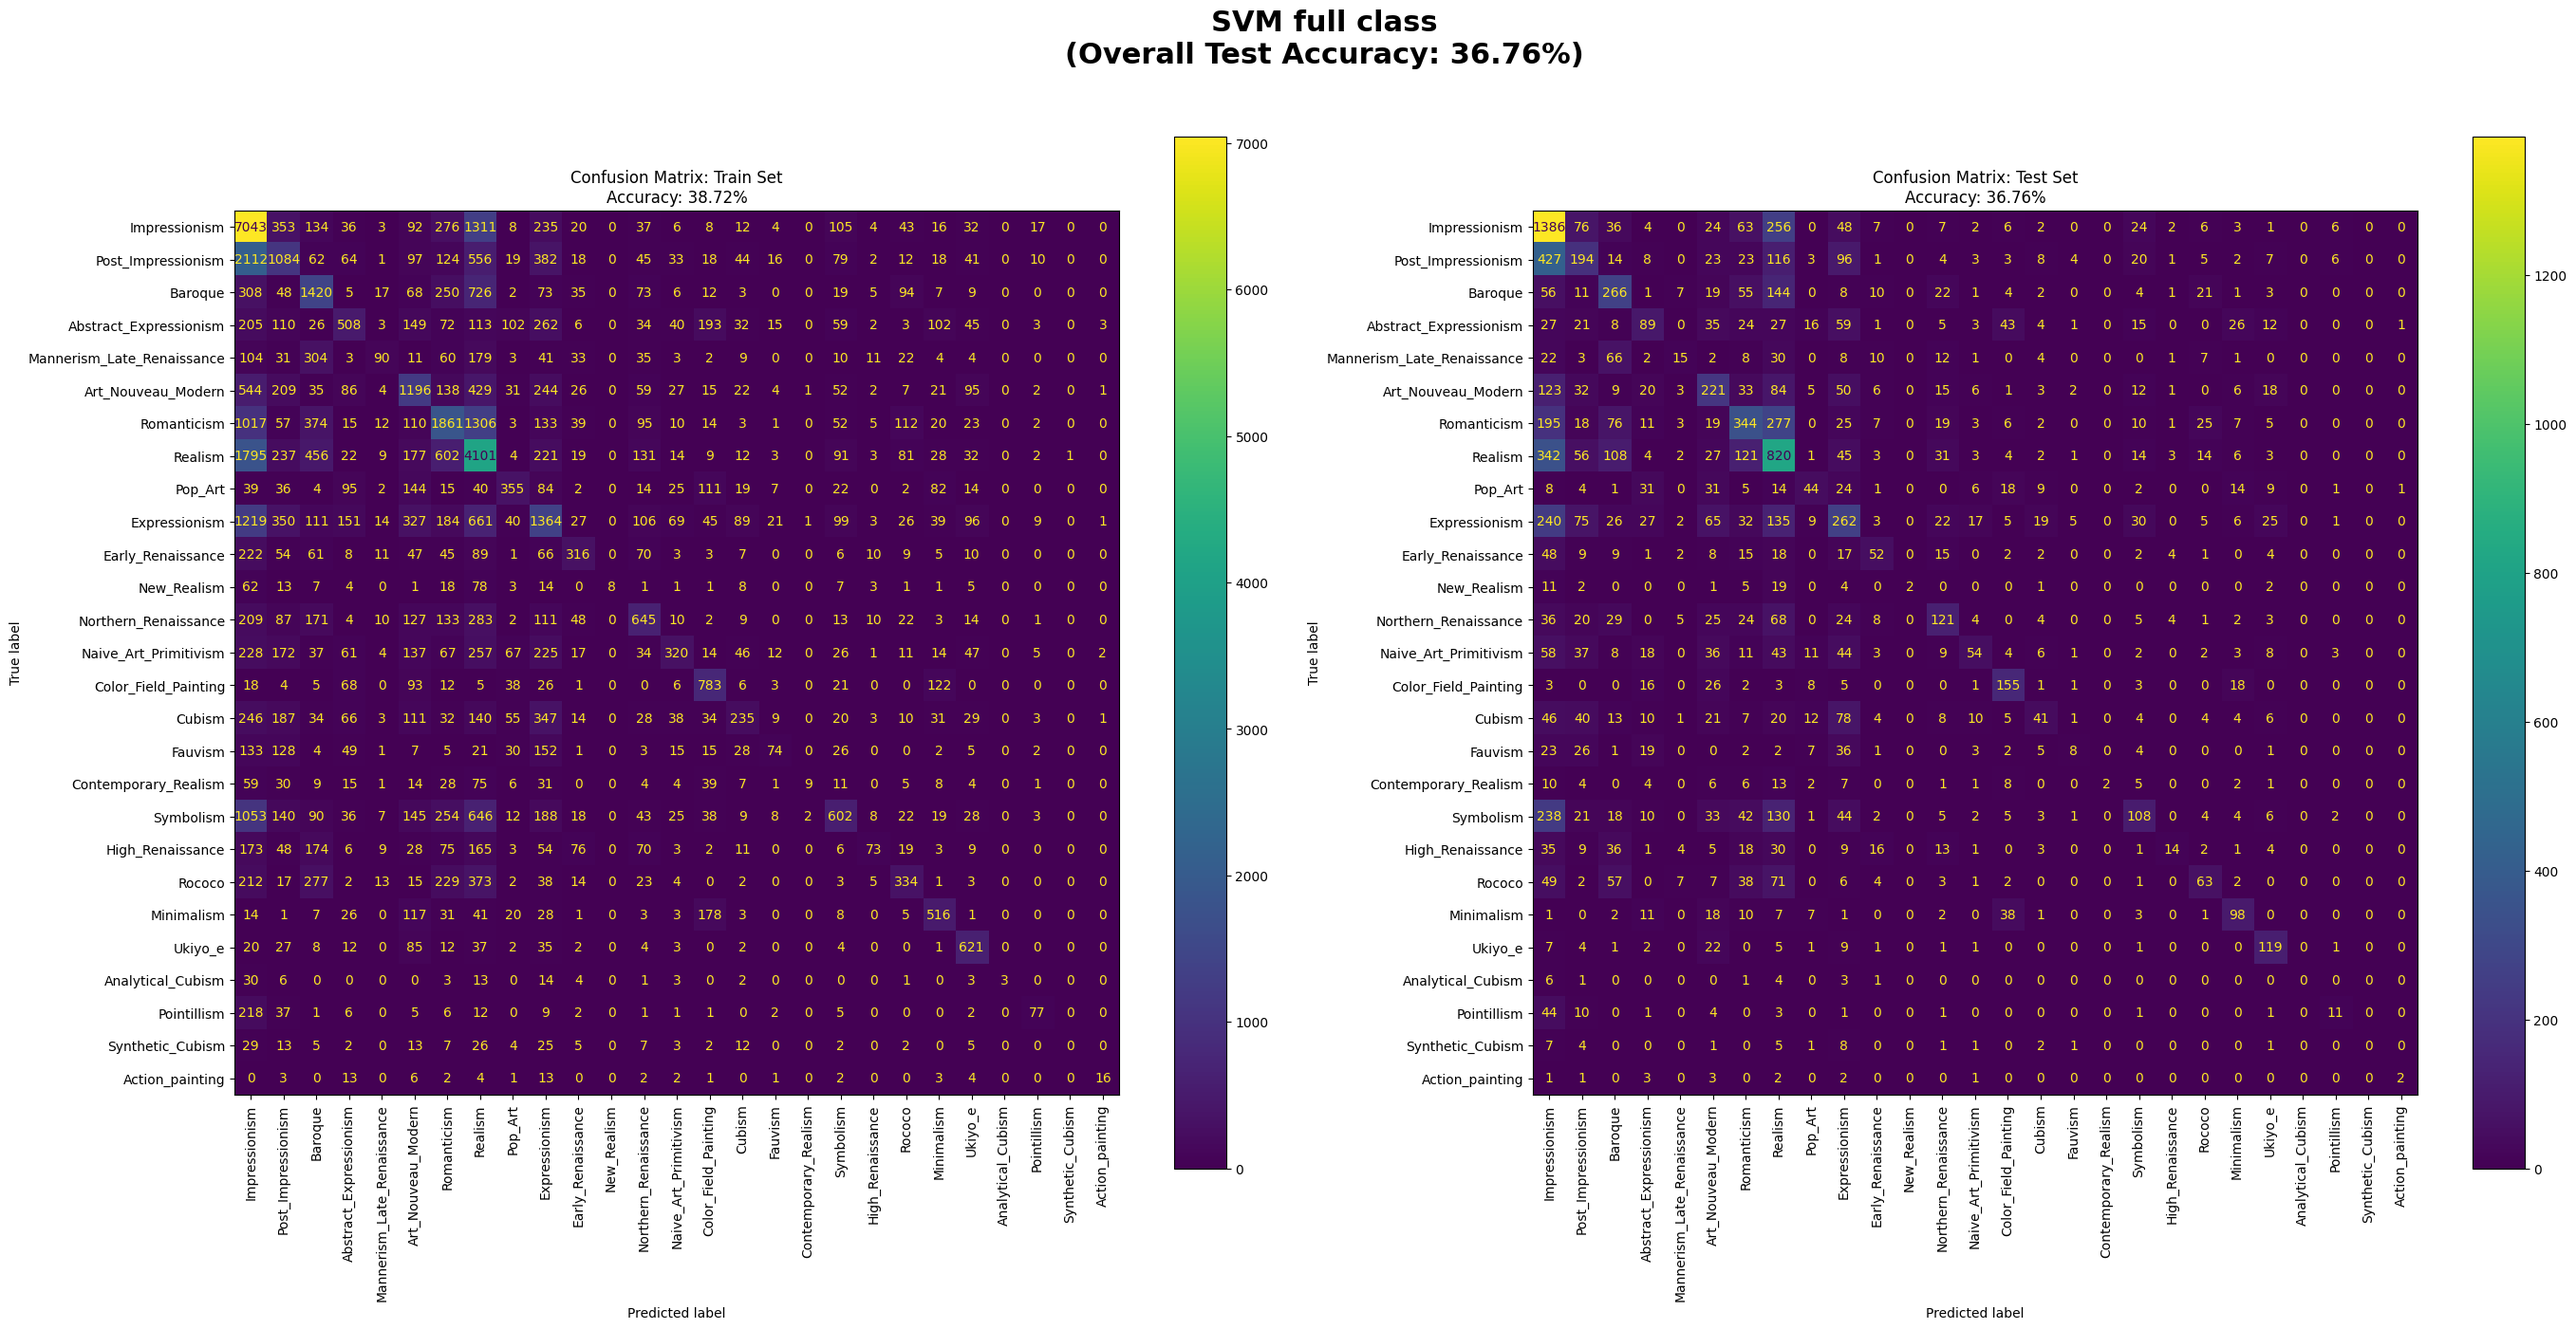
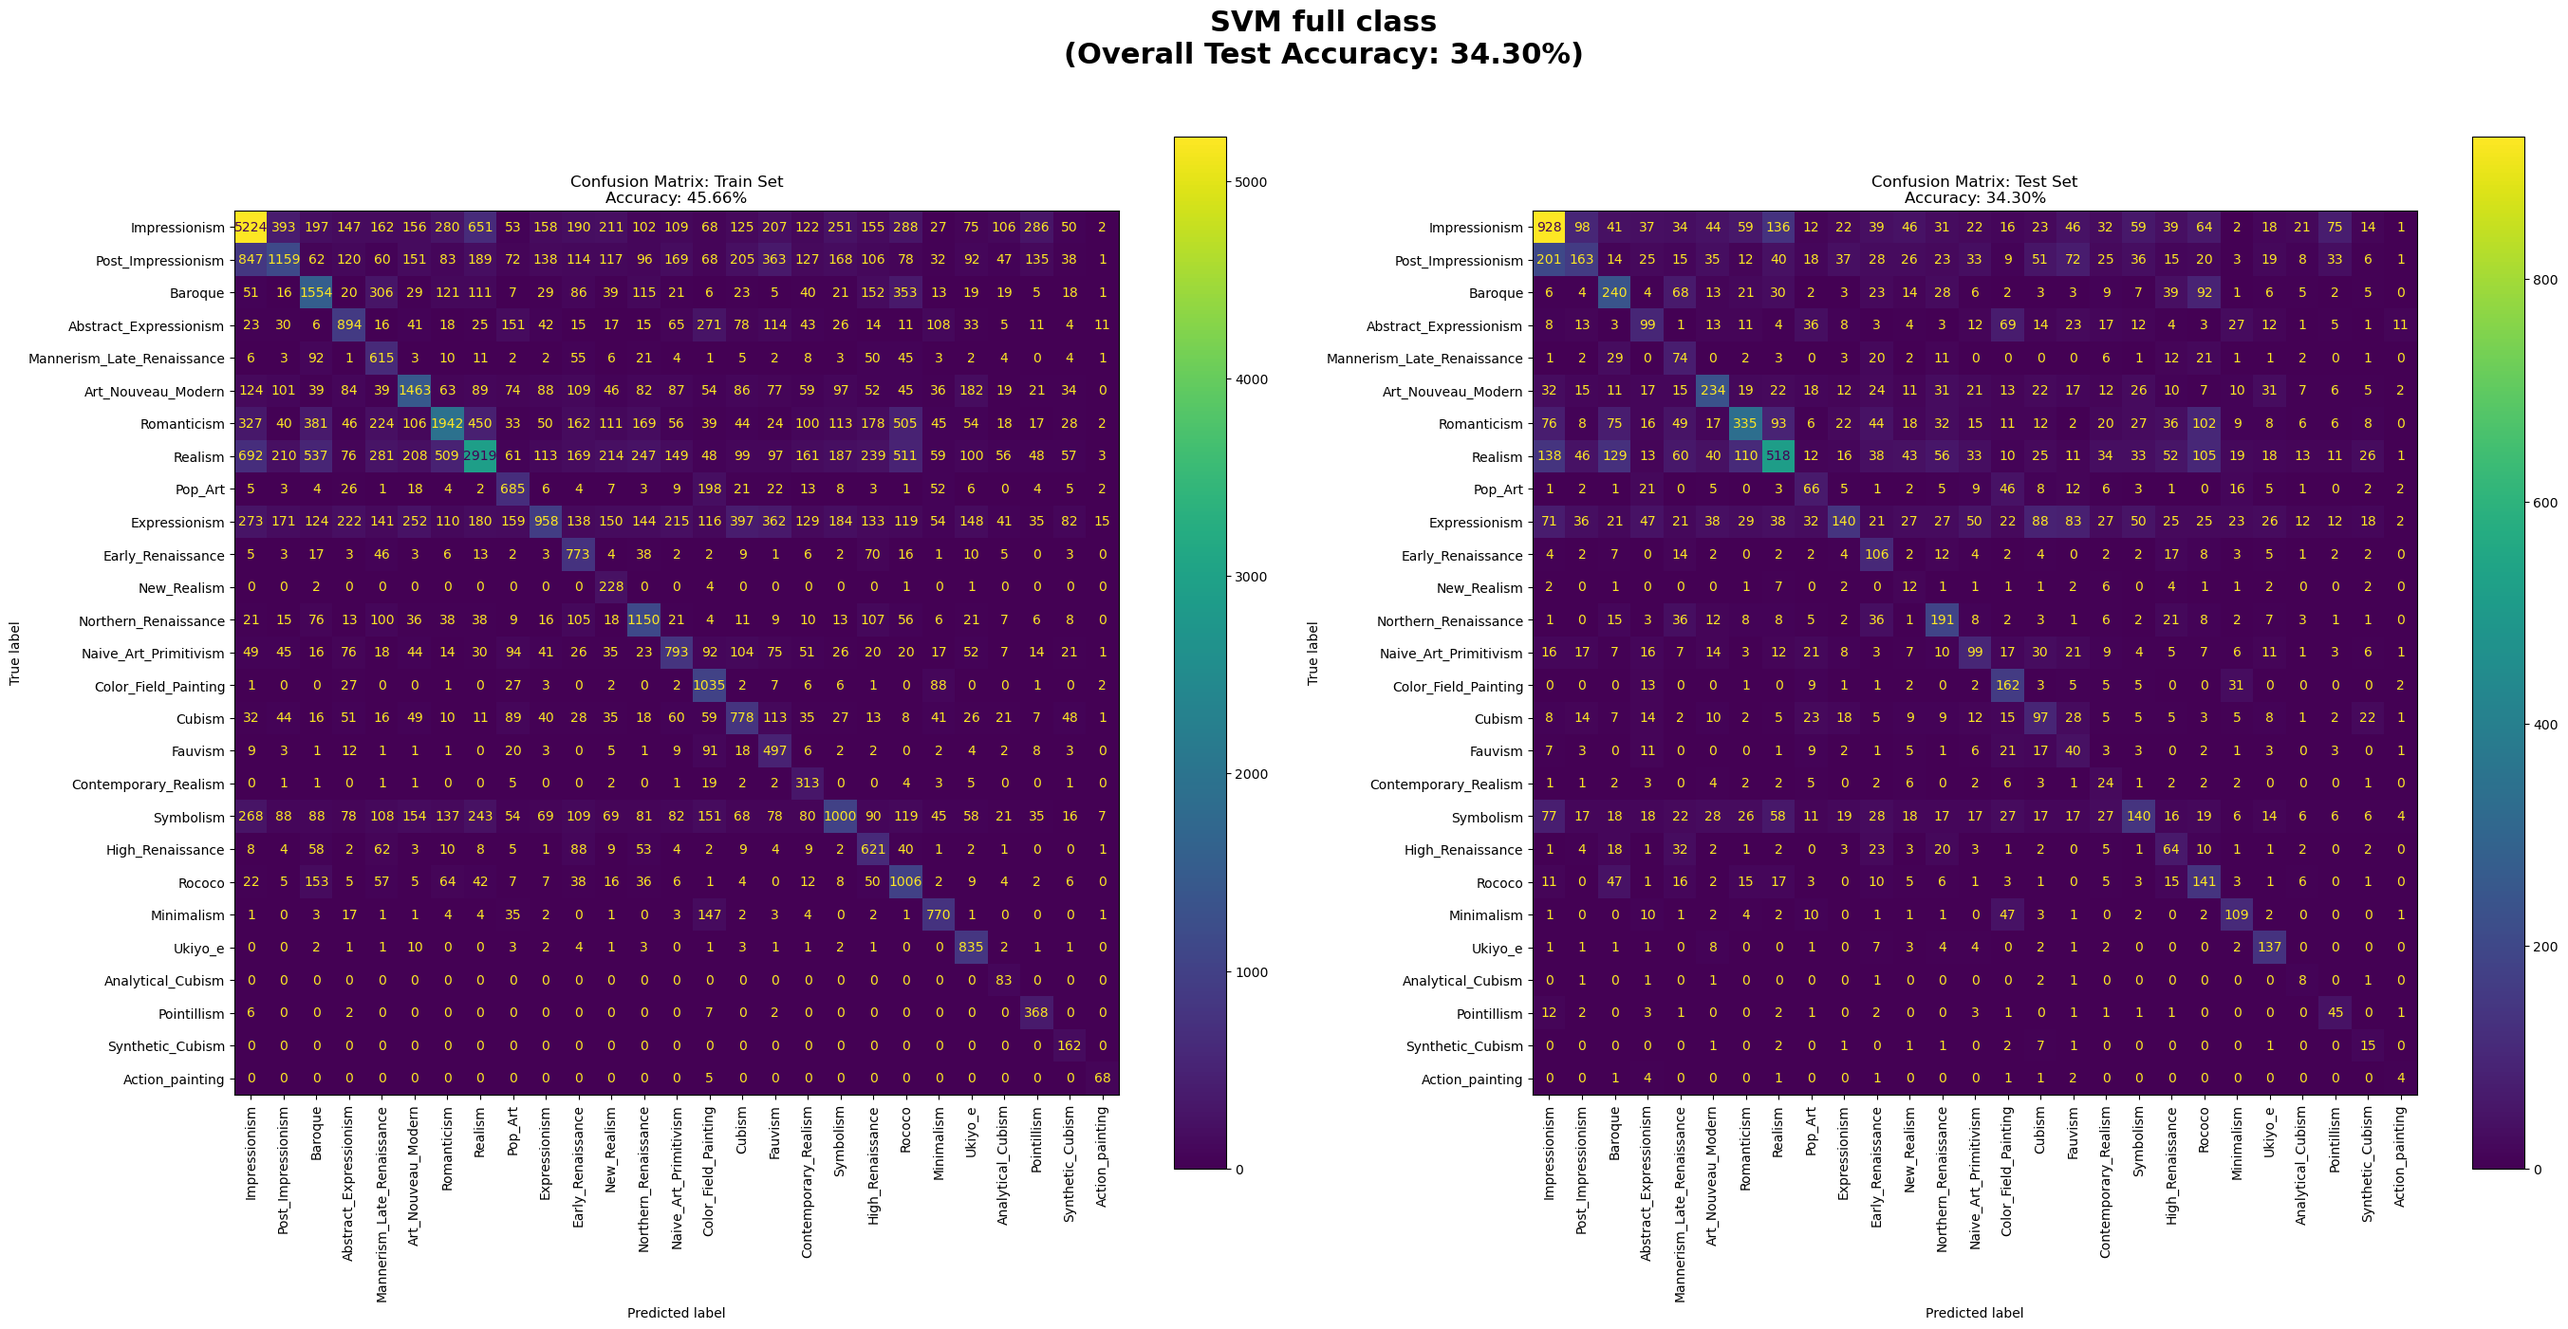
New features and SVM V1
Introduced additional image feature extraction methods including HOG statistics, edge statistics, LAB histogram, wavelet texture, depth of field proxy, and rule of thirds stats. Updated the SVM pipeline with increased Nystroem components and adjusted LinearSVC parameters for improved model performance. Fixed import path for DataBase_Functions in Main.py. Updated SVM score images.

diff --git a/DataBase/Feature_extraction_functions.py b/DataBase/Feature_extraction_functions.py
@@ -232,10 +232,6 @@ def color_harmony_contrast(img, n_bins=32):
 
     return features
 
-
-
-
-
 def lbp_histogram(img, P=8, R=1):
     """
     Compute uniform Local Binary Pattern (LBP) histogram for an image.
@@ -450,8 +446,205 @@ def fractal_dimension(img, threshold=128):
     # Final safety check for SVM stability
     return result if np.isfinite(result) else 0.0
 
+############ NOWE #######################
+
+def hog_stats(img):
+    """
+    HOG normalnie zwraca tysiące cech. My policzymy statystyki z HOG,
+    aby uchwycić "kierunkowość" pociągnięć pędzla bez wysadzania wymiarowości.
+    """
+    if img.ndim == 3:
+        gray = cv2.cvtColor(img, cv2.COLOR_RGB2GRAY)
+    else:
+        gray = img.copy()
+
+    # Zmniejszamy obraz dla szybkości HOG (opcjonalne, ale zalecane dla SVM)
+    # HOG jest bardzo wolny na dużych obrazach 512x512
+    img_small = cv2.resize(gray, (128, 128))
+
+    # Obliczamy HOG
+    fd = hog(img_small, orientations=9, pixels_per_cell=(16, 16),
+             cells_per_block=(2, 2), visualize=False, feature_vector=True)
+    
+    # Zamiast zwracać cały wektor fd (który ma np. 2000 elementów), zwracamy jego statystyki
+    return {
+        'hog_mean': np.mean(fd),
+        'hog_std':  np.std(fd),
+        'hog_max':  np.max(fd),
+        'hog_kurtosis': np.mean((fd - np.mean(fd))**4) / (np.std(fd)**4 + 1e-6)
+    }
+
+def edge_statistics(img):
+    """
+    Zamiast szukać zamkniętych konturów (co nie działa w malarstwie),
+    liczymy statystyki krawędzi (Canny).
+    """
+    # Konwersja do szarości
+    if img.ndim == 3:
+        gray = cv2.cvtColor(img, cv2.COLOR_RGB2GRAY)
+    else:
+        gray = img.copy()
+        
+    # Detekcja krawędzi algorytmem Canny
+    # Parametry 50, 150 są standardowe, można eksperymentować
+    edges = cv2.Canny(gray, 50, 150)
+    
+    # Obliczamy gęstość krawędzi (ile % obrazu to krawędzie)
+    edge_density = np.mean(edges > 0)
+    
+    # Kierunkowość krawędzi (opcjonalnie, prosta wersja)
+    # Sobel X i Y
+    sobelx = cv2.Sobel(gray, cv2.CV_64F, 1, 0, ksize=3)
+    sobely = cv2.Sobel(gray, cv2.CV_64F, 0, 1, ksize=3)
+    magnitude = np.sqrt(sobelx**2 + sobely**2)
+    
+    return {
+        'edge_density': edge_density,
+        'edge_magnitude_mean': np.mean(magnitude),
+        'edge_magnitude_std': np.std(magnitude)
+    }
+
+def lab_histogram(img):
+    """
+    Z artykułu Karayev et al.:
+    Joint histogram in CIELAB color space.
+    Używa 4 binów dla L, 14 dla a, 14 dla b.
+    """
+    # Konwersja do LAB
+    if img.ndim == 3:
+        lab = cv2.cvtColor(img, cv2.COLOR_RGB2LAB)
+    else:
+        return {} # Obsługa błędów dla obrazów w skali szarości
+
+    # Obliczenie histogramu 3D
+    # ranges: L (0-256), a (0-256), b (0-256) w OpenCV
+    # bins: [4, 14, 14] zgodnie z artykułem
+    hist = cv2.calcHist([lab], [0, 1, 2], None, [4, 14, 14], [0, 256, 0, 256, 0, 256])
+    
+    # Normalizacja (L1 norm), aby suma wynosiła 1 (niezależnie od rozmiaru obrazu)
+    hist = cv2.normalize(hist, None).flatten()
+    
+    # Zwracamy jako słownik cech statystycznych histogramu
+    # (SVM nie przyjmie całego histogramu jeśli jest za duży, ale tutaj to 4*14*14 = 784 cechy)
+    # W Twoim przypadku lepiej zwrócić to jako listę wartości w słowniku
+    features = {}
+    for i, val in enumerate(hist):
+        features[f'lab_hist_{i}'] = val
+        
+    return features
+
+def wavelet_texture(img):
+    """
+    Z artykułu Datta et al.[cite: 1883, 1890]:
+    3-level Daubechies wavelet transform on HSV.
+    Sum of coefficients in HL, LH, HH bands.
+    """
+    import pywt
+    
+    if img.ndim == 3:
+        hsv = cv2.cvtColor(img, cv2.COLOR_RGB2HSV)
+    else:
+        # Fallback dla grayscale
+        hsv = cv2.cvtColor(cv2.cvtColor(img, cv2.COLOR_GRAY2RGB), cv2.COLOR_RGB2HSV)
+        
+    features = {}
+    channels = ['H', 'S', 'V']
+    
+    # Dla każdego kanału
+    for i, chan_name in enumerate(channels):
+        c_data = hsv[:,:,i].astype(float)
+        
+        # 3-poziomowa dekompozycja falkowa używając falki Daubechies 'db2' (lub db1)
+        coeffs = pywt.wavedec2(c_data, 'db2', level=3)
+        
+        # coeffs[0] to przybliżenie (LL), coeffs[1..3] to detale (LH, HL, HH) na poziomach
+        # Datta sumuje współczynniki detali
+        
+        # Level 1 (najdrobniejsze detale) to ostatni element listy coeffs
+        # Level 3 (najgrubsze) to coeffs[1]
+        
+        total_energy = 0
+        for level in range(1, 4):
+            (LH, HL, HH) = coeffs[level]
+            # Energia pasma: suma wartości bezwzględnych
+            energy = np.sum(np.abs(LH)) + np.sum(np.abs(HL)) + np.sum(np.abs(HH))
+            features[f'wavelet_{chan_name}_L{level}'] = energy
+            total_energy += energy
+            
+        features[f'wavelet_{chan_name}_total'] = total_energy
+
+    return features
+
+def depth_of_field_proxy(img):
+    """
+    Inspirowane Datta et al.[cite: 230, 241, 242]:
+    Mierzy różnicę w ostrości między centrum a brzegami obrazu.
+    Wysoka wartość sugeruje, że obiekt w centrum jest ostry, a tło rozmyte (Macro/Portret).
+    """
+    if img.ndim == 3:
+        gray = cv2.cvtColor(img, cv2.COLOR_RGB2GRAY)
+    else:
+        gray = img.copy()
+
+    H, W = gray.shape
+    
+    # Detekcja krawędzi (Laplacian) jako miara "ostrości"
+    # Można też użyć falek (wavelets) jak w artykule, ale Laplacian jest szybszy
+    laplacian = cv2.Laplacian(gray, cv2.CV_64F)
+    focus_map = np.abs(laplacian)
+    
+    # Definiujemy centrum (środkowe 50% powierzchni, czyli od 1/4 do 3/4 szerokości/wysokości)
+    # Datta [cite: 241] używa bloków M6, M7, M10, M11 w siatce 4x4, co daje dokładnie środek.
+    h_start, h_end = H // 4, 3 * H // 4
+    w_start, w_end = W // 4, 3 * W // 4
+    
+    center_focus = focus_map[h_start:h_end, w_start:w_end]
+    
+    # Obliczamy średnią energię krawędzi w centrum i na całym obrazie
+    mean_center = np.mean(center_focus)
+    mean_whole = np.mean(focus_map)
+    
+    # Unikamy dzielenia przez zero
+    if mean_whole == 0:
+        dof_ratio = 0.0
+    else:
+        dof_ratio = mean_center / mean_whole
+
+    return {'dof_ratio': dof_ratio}
 
 
+def rule_of_thirds_stats(img):
+    """
+    Inspirowane Datta et al.[cite: 151, 153, 157]:
+    Liczy średnie wartości HSV dla wewnętrznego obszaru "Zasady Trójpodziału".
+    Datta zauważył, że profesjonalne zdjęcia często mają unikalny rozkład barw w centrum.
+    """
+    if img.ndim != 3:
+        return {} # Wymaga koloru
+        
+    hsv = cv2.cvtColor(img, cv2.COLOR_RGB2HSV)
+    H, W, _ = hsv.shape
+    
+    # Definiujemy obszar "Rule of Thirds" (środkowa 1/3 obrazu w pionie i poziomie)
+    # Zgodnie z  badamy obszar od X/3 do 2X/3.
+    h_start, h_end = H // 3, 2 * H // 3
+    w_start, w_end = W // 3, 2 * W // 3
+    
+    center_region = hsv[h_start:h_end, w_start:w_end, :]
+    whole_image = hsv
+    
+    feats = {}
+    for i, channel in enumerate(['H', 'S', 'V']):
+        # Średnia w centrum
+        center_mean = np.mean(center_region[:,:,i])
+        # Średnia całości
+        whole_mean = np.mean(whole_image[:,:,i])
+        
+        feats[f'rot_center_mean_{channel}'] = center_mean
+        # Różnica między centrum a resztą (kontrast kompozycyjny)
+        feats[f'rot_contrast_{channel}'] = center_mean - whole_mean
+
+    return feats
 
 
 

diff --git a/DataBase/DataBase_Functions.py b/DataBase/DataBase_Functions.py
@@ -31,17 +31,30 @@ def extract_single_image_features(row_tuple):
 
         #Feature extraction
         ##################################
-        v_sym, h_sym = Fef.symmetry_scores_ssim(img) 
-        feature_dict.update({'vert_sym': v_sym, 'horiz_sym': h_sym})
         feature_dict['entropy'] = Fef.img_entropy(img, n_bins=64)
         feature_dict.update(Fef.color_moments(img))
         feature_dict.update(Fef.colorfulness_saturation(img))
         feature_dict.update(Fef.color_harmony_contrast(img))
-        feature_dict.update(Fef.contour_statistics(img))
+
+        feature_dict.update(Fef.lab_histogram(img))
+        
         feature_dict.update(Fef.haralick_features(img))
         feature_dict.update(Fef.gabor_features(img))
+
+        feature_dict['lbp_histogram'] = Fef.lbp_histogram(img)
+
+        feature_dict.update(Fef.wavelet_texture(img))
+
+        feature_dict.update(Fef.edge_statistics(img))
+        feature_dict.update(Fef.hog_stats(img))
+
+        feature_dict.update(Fef.depth_of_field_proxy(img)) # Głębia ostrości
+        feature_dict.update(Fef.rule_of_thirds_stats(img))
+
+        v_sym, h_sym = Fef.symmetry_scores_ssim(img) 
+        feature_dict.update({'vert_sym': v_sym, 'horiz_sym': h_sym})
+
         feature_dict.update(Fef.radial_spectral_summary(img))
-        feature_dict['fractal_dim'] = Fef.fractal_dimension(img)
         ##################################
         
         return feature_dict

diff --git a/Functions.py b/Functions.py
@@ -88,8 +88,8 @@ def Train_and_Evaluate_Model(Processed_data,
         gamma_val = 1.0 / (Processed_data['x_train'].shape[1] * Processed_data['x_train'].var())
         print("Gamma val: ", gamma_val)
         clf = make_pipeline(
-            Nystroem(kernel='rbf', gamma = gamma_val , n_components=600, random_state=42),
-            LinearSVC(C=1, dual=False, max_iter=2000, verbose=True)
+            Nystroem(kernel='rbf', gamma = gamma_val , n_components=2000, random_state=42),
+            LinearSVC(C=10, class_weight='balanced', dual=False, max_iter=2000, verbose=True)
         )
         
         # Fit on training data

diff --git a/Main.py b/Main.py
@@ -17,7 +17,7 @@ from Config import TRAIN_SPLIT, VAL_SPLIT, TEST_SPLIT, RANDOM_STATE
 ##########################################################################################
 #Move folder up to go to database folder to use manager from here
 sys.path.insert(0, DATABASE_FOLDER)
-from DataBase_Functions import Custom_DataSet_Manager, LabelEncoderDF, Prepare_data_from_features
+from DataBase.DataBase_Functions import Custom_DataSet_Manager, LabelEncoderDF, Prepare_data_from_features
 import Functions
 
 from sklearn.preprocessing import StandardScaler
